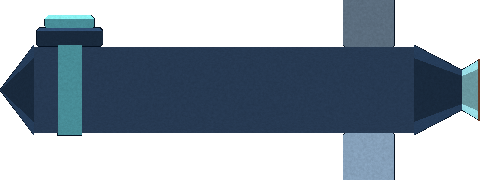
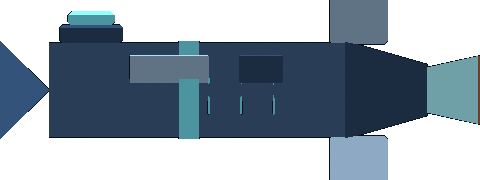
KES-292 unify rocket sprite family
Author Explorer and Prospector bodies in Blender with shared operational and blueprint variants, then wire mining and menu surfaces to one asset map.

diff --git a/web/components/game/screens/MiningCanvas.tsx b/web/components/game/screens/MiningCanvas.tsx
@@ -2,11 +2,12 @@
 
 import { useEffect, useRef, useState } from 'react'
 import { capDpr } from '@/lib/engine/pixiDisplay'
-import { Application, Assets, Container, Graphics, type Texture } from 'pixi.js'
+import { Application, Assets, Container, Graphics, Sprite, type Texture } from 'pixi.js'
 import { Scene, GameLoop, InputManager, RuntimeContext, screenToWorld } from '@/lib/engine'
 import { wireShapeRenderers } from '@/lib/engine/components/ShapeRenderer'
 import { MiningController, SHIP_X, SCROLL_SPEED, SCROLL_SPEED_MIN, SCROLL_SPEED_MAX } from '@/lib/engine/scripts/MiningController'
 import type { MineralMeta } from '@/lib/data'
+import { ROCKET_ASSETS } from '@/lib/rocket-assets'
 
 // Keep every mineral visibly grounded in the mining scene. The authored set
 // covers the most common late-game ores; the neutral iron crystal is a
@@ -66,7 +67,7 @@ function buildAimGuide(shipY: number, surfaceY: number): Graphics {
   return g
 }
 
-function buildShip(shipY: number): Graphics {
+function buildEnginePlume(): Graphics {
   const g = new Graphics()
 
   // Engine exhaust layers
@@ -75,51 +76,11 @@ function buildShip(shipY: number): Graphics {
   g.ellipse(-24, 0, 7, 4).fill({ color: 0xffcc22, alpha: 0.82 })
   g.circle(-22, 0, 3).fill({ color: 0xfff0aa, alpha: 1 })
 
-  // Swept delta wings (drawn behind fuselage)
-  g.poly([-6, 6, 18, 6, 10, 24, -20, 18]).fill(0x0d2040)
-  g.poly([-6, -6, 18, -6, 10, -24, -20, -18]).fill(0x0d2040)
-  // Wing leading-edge highlight
-  g.poly([18, -6, 18, -8, -4, -8, -6, -6]).fill({ color: 0x2f6aaa, alpha: 0.55 })
-  g.poly([18, 6, 18, 8, -4, 8, -6, 6]).fill({ color: 0x2f6aaa, alpha: 0.55 })
-
-  // Engine cowling (rear block)
-  g.rect(-26, -5, 10, 10).fill(0x071220)
-  g.rect(-25, -3, 5, 6).fill(0x132c50)
-
-  // Main fuselage — elongated torpedo
-  g.poly([-18, -8, 30, -6, 42, 0, 30, 6, -18, 8, -23, 4, -23, -4]).fill(0x1a4282)
-
-  // Fuselage dorsal highlight (top third, lighter)
-  g.poly([-2, -7, 28, -5.5, 28, -2, -2, -3]).fill({ color: 0x3a78c8, alpha: 0.42 })
-
-  // Wing-root fairings where wings meet body
-  g.poly([-2, -6, 16, -6, 14, -10, -8, -10]).fill(0x12305c)
-  g.poly([-2, 6, 16, 6, 14, 10, -8, 10]).fill(0x12305c)
-
-  // Cockpit surround
-  g.ellipse(14, 0, 14, 8).fill(0x050d1a)
-  // Cockpit glass with two-tone reflection
-  g.ellipse(15, -1, 11, 5.5).fill({ color: 0x1e66bb, alpha: 0.65 })
-  g.ellipse(17, -2, 6, 2.8).fill({ color: 0x6ab8f0, alpha: 0.75 })
-  g.ellipse(19, -2.5, 2.5, 1.2).fill({ color: 0xc4e8ff, alpha: 0.6 })
-
-  // Nose cone
-  g.poly([30, -5.5, 44, 0, 30, 5.5]).fill(0x1e5096)
-  g.poly([30, -3, 42, 0, 30, 3]).fill({ color: 0x4a90d8, alpha: 0.45 })
-
-  // Laser emitter barrel
-  g.rect(42, -1.8, 10, 3.6).fill(0x0a1e3a)
-  g.rect(43, -0.8, 8, 1.6).fill(0x1a4470)
-  // Emitter tip glow
-  g.circle(52, 0, 3).fill({ color: 0x44bbff, alpha: 0.9 })
-  g.circle(52, 0, 1.6).fill({ color: 0xccf2ff, alpha: 1 })
-
-  g.x = SHIP_X
-  g.y = shipY
   return g
 }
 
 interface MiningCanvasProps {
+  rocketImageSrc?: string
   minerals: string[]
   requiredMinerals?: string[]
   mineralMeta: Record<string, MineralMeta>
@@ -133,7 +94,7 @@ interface MiningCanvasProps {
   neededMineralsRef?: React.MutableRefObject<Set<string> | null>
 }
 
-export default function MiningCanvas({ minerals, requiredMinerals, mineralMeta, laserTier, onCollect, fireRef, scrollRef, oreNearRef, neededMineralsRef }: MiningCanvasProps) {
+export default function MiningCanvas({ rocketImageSrc, minerals, requiredMinerals, mineralMeta, laserTier, onCollect, fireRef, scrollRef, oreNearRef, neededMineralsRef }: MiningCanvasProps) {
   const containerRef = useRef<HTMLDivElement>(null)
   const onCollectRef = useRef(onCollect)
   onCollectRef.current = onCollect
@@ -194,6 +155,13 @@ export default function MiningCanvas({ minerals, requiredMinerals, mineralMeta, 
               .catch(() => {})
           })
         )
+
+        let rocketTexture: Texture | null = null
+        try {
+          rocketTexture = await Assets.load<Texture>(rocketImageSrc ?? ROCKET_ASSETS.explorer.exterior)
+        } catch {
+          try { rocketTexture = await Assets.load<Texture>(ROCKET_ASSETS.explorer.exterior) } catch { rocketTexture = null }
+        }
 
         const [sceneData] = await Promise.all([
           Scene.load('/game/scenes/mining.scene.json'),
@@ -283,7 +251,28 @@ export default function MiningCanvas({ minerals, requiredMinerals, mineralMeta, 
         }
 
         app.stage.addChild(buildAimGuide(shipY, surfaceY))
-        app.stage.addChild(buildShip(shipY))
+        const plume = buildEnginePlume()
+        plume.x = SHIP_X - 48
+        plume.y = shipY
+        app.stage.addChild(plume)
+
+        if (rocketTexture) {
+          const ship = new Sprite(rocketTexture)
+          const shipWidth = Math.min(112, worldW * 0.26)
+          const shipScale = shipWidth / rocketTexture.width
+          ship.anchor.set(0.5)
+          ship.scale.set(-shipScale, shipScale)
+          ship.x = SHIP_X
+          ship.y = shipY
+          app.stage.addChild(ship)
+          let plumePhase = 0
+          app.ticker.add(ticker => {
+            plumePhase += ticker.deltaMS / 1000
+            const pulse = 0.92 + Math.sin(plumePhase * 18) * 0.08
+            plume.scale.set(pulse, 0.94 + Math.sin(plumePhase * 13) * 0.06)
+            plume.alpha = 0.84 + Math.sin(plumePhase * 11) * 0.10
+          })
+        }
 
         loop = new GameLoop(scene, app)
         loop.start()
@@ -311,7 +300,7 @@ export default function MiningCanvas({ minerals, requiredMinerals, mineralMeta, 
       // else: async init returns early (destroyed=true), canvas stays briefly then is GC'd with parent
     }
     // eslint-disable-next-line react-hooks/exhaustive-deps
-  }, [])
+  }, [rocketImageSrc])
 
   return (
     <div ref={containerRef} className="mining-canvas" data-testid="mining-canvas">

diff --git a/web/components/game/RocketCutaway.tsx b/web/components/game/RocketCutaway.tsx
@@ -1,5 +1,7 @@
 'use client'
 
+import { rocketAssetsForId } from '@/lib/rocket-assets'
+
 export type RocketRoomKey = 'payload' | 'fuel' | 'engine' | 'structure'
 
 interface RocketCutawayProps {
@@ -21,6 +23,7 @@ interface RoomSpec {
 }
 
 export default function RocketCutaway({ rocket, activeRoom, onToggle }: RocketCutawayProps) {
+  const blueprintSrc = rocketAssetsForId(rocket.id).blueprint
   const rooms: RoomSpec[] = [
     {
       key: 'payload',
@@ -77,28 +80,8 @@ export default function RocketCutaway({ rocket, activeRoom, onToggle }: RocketCu
     <div style={{ width: '100%', display: 'flex', flexDirection: 'column', alignItems: 'center', gap: 12 }}>
       <div data-testid="rocket-cutaway" style={{ position: 'relative', width: '100%', maxWidth: 760, aspectRatio: '760 / 380' }}>
         <svg viewBox="0 0 760 380" fill="none" aria-hidden="true" style={{ position: 'absolute', inset: 0, width: '100%', height: '100%' }}>
-          {/* Hull — unfilled technical linework, no glow. */}
-          <path
-            d="M22 180 L92 82 Q108 62 136 62 H640 Q690 90 726 180 Q690 270 640 298 H136 Q108 298 92 278 Z"
-            fill="none"
-            stroke="var(--ln-bp-ink, var(--ln-text))"
-            strokeWidth="2"
-          />
-          <path
-            d="M92 82 L160 106 H610 Q660 126 688 180 Q660 234 610 254 H160 L92 278"
-            fill="none"
-            stroke="var(--ln-bp-ink-dim, var(--ln-text-dim))"
-            strokeWidth="1"
-            opacity=".6"
-          />
-
-          {/* Dashed horizontal centerline through the hull. */}
-          <line x1="22" y1="180" x2="726" y2="180" stroke="var(--ln-bp-ink-mute, var(--ln-text-muted))" strokeWidth="1" strokeDasharray="6 6" />
-
-          {/* Fin / nozzle linework, restyled as outline strokes only. */}
-          <path d="M92 106 L54 122 V238 L92 254" fill="none" stroke="var(--ln-bp-ink, var(--ln-text))" strokeWidth="1.5" />
-          <path d="M640 106 L704 126 V234 L640 254" fill="none" stroke="var(--ln-bp-ink, var(--ln-text))" strokeWidth="1.5" />
-          <ellipse cx="728" cy="180" rx="20" ry="16" fill="none" stroke="var(--ln-bp-ink, var(--ln-text))" strokeWidth="1.5" />
+          {/* Blender render of the same body used by the operational sprite. */}
+          <image href={blueprintSrc} x="0" y="0" width="760" height="380" preserveAspectRatio="none" opacity=".96" />
 
           {/* Leader lines + captions, one per room. */}
           {rooms.map(room => {

diff --git a/web/components/game/screens/MiningScreen.tsx b/web/components/game/screens/MiningScreen.tsx
@@ -154,9 +154,10 @@ function miningGuide(deliveryTargetName?: string) {
   ]
 }
 
-export default function MiningScreen({ mission, target, onComplete, onBack, onAbandon, minerals, laserChargeCap, laserTier, hasCoach, coachManual, onCoachDone, addToast, deliveryTargetName, hasPriorFreeOpsExperience, initialCargo, remoteSiloAvailable, remoteSiloUsed = 0 }: {
+export default function MiningScreen({ mission, target, rocketImageSrc, onComplete, onBack, onAbandon, minerals, laserChargeCap, laserTier, hasCoach, coachManual, onCoachDone, addToast, deliveryTargetName, hasPriorFreeOpsExperience, initialCargo, remoteSiloAvailable, remoteSiloUsed = 0 }: {
   mission: Mission
   target: Target
+  rocketImageSrc?: string
   onComplete: (cargo: Record<string, number>, remoteDisposition?: 'store' | 'sell') => void
   /** Called with whatever's been collected so far (may be empty) — the caller is responsible for persisting it so a later resume doesn't lose progress. */
   onBack: (cargo: Record<string, number>) => void
@@ -514,6 +515,7 @@ export default function MiningScreen({ mission, target, onComplete, onBack, onAb
         <div className="mining-stars" />
         <MiningCanvas
           key={runKey}
+          rocketImageSrc={rocketImageSrc}
           minerals={depositMinerals}
           requiredMinerals={Object.keys(mission.requires.minerals)}
           mineralMeta={minerals}

diff --git a/web/lib/rockets.test.ts b/web/lib/rockets.test.ts
@@ -1,5 +1,6 @@
 import { describe, expect, it } from 'vitest'
 import { ROCKET_MODELS, ROCKET_IDS, canonicalRocketId, rocketConfigForModel } from '@/lib/data'
+import { ROCKET_ASSETS } from './rocket-assets'
 import { getRequiredRocketModel } from './rockets'
 
 describe('getRequiredRocketModel', () => {
@@ -38,5 +39,16 @@ describe('rocketConfigForModel', () => {
     expect(rocketConfigForModel(ROCKET_MODELS.find(rocket => rocket.id === ROCKET_IDS.prospector))).toEqual({
       chassis: 'hull-mk2', propulsion: 'fusion-b2', drill: 'laser-t2',
     })
+  })
+})
+
+describe('rocket asset family', () => {
+  it('keeps one exterior and blueprint pair per canonical vehicle', () => {
+    expect(ROCKET_ASSETS.explorer.exterior).toContain('ship_sr1.png')
+    expect(ROCKET_ASSETS.explorer.blueprint).toContain('sr1_cutaway.png')
+    expect(ROCKET_ASSETS.prospector.exterior).toContain('ship_sr2.png')
+    expect(ROCKET_ASSETS.prospector.blueprint).toContain('sr2_cutaway.png')
+    expect(new Set(Object.values(ROCKET_ASSETS).map(assets => assets.exterior)).size).toBe(2)
+    expect(new Set(Object.values(ROCKET_ASSETS).map(assets => assets.blueprint)).size).toBe(2)
   })
 })

diff --git a/web/components/game/AuthGateSheet.tsx b/web/components/game/AuthGateSheet.tsx
@@ -1,6 +1,7 @@
 'use client'
 
 import React, { useState } from 'react'
+import { ROCKET_ASSETS } from '@/lib/rocket-assets'
 
 interface AuthGateSheetProps {
   error: string | null
@@ -79,7 +80,7 @@ export default function AuthGateSheet({ error, onSignIn, onCreateAccount, onCont
           <div className="auth-gate__orbit auth-gate__orbit--outer" />
           <div className="auth-gate__orbit auth-gate__orbit--inner" />
           <div className="auth-gate__planet" />
-          <img className="auth-gate__ship" src="/game/assets/ships/ship_sr1.png" alt="" />
+          <img className="auth-gate__ship" src={ROCKET_ASSETS.explorer.exterior} alt="" />
           <div className="auth-gate__telemetry">
             <span>ORBITAL NETWORK</span><strong>ONLINE</strong>
             <span>LOCAL TIME</span><strong>03:17:42 UTC</strong>

diff --git a/web/lib/data/rockets.ts b/web/lib/data/rockets.ts
@@ -9,6 +9,7 @@
 
 import type { RocketConfig, RocketModel } from './types'
 import { ROCKET_PRICES } from './economy'
+import { ROCKET_ASSETS } from '../rocket-assets'
 
 export const ROCKET_IDS = {
   explorer: 'explorer',
@@ -35,7 +36,7 @@ export const ROCKET_MODELS: RocketModel[] = [
     missionsRequired: 0,
     locked: false,
     stats: { cargo: 6, maxOrbit: 5, drillTier: 1 },
-    img: '/game/assets/ships/ship_sr1.png',
+    img: ROCKET_ASSETS.explorer.exterior,
     unlockHint: 'Available from the start',
   },
   {
@@ -46,7 +47,7 @@ export const ROCKET_MODELS: RocketModel[] = [
     missionsRequired: 1,
     locked: false,
     stats: { cargo: 10, maxOrbit: 7, drillTier: 2 },
-    img: '/game/assets/ships/ship_sr2.png',
+    img: ROCKET_ASSETS.prospector.exterior,
     unlockHint: 'Unlocks after M1',
   },
   {

diff --git a/web/lib/rocket-assets.ts b/web/lib/rocket-assets.ts
@@ -1,0 +1,21 @@
+/**
+ * The only runtime mapping between a canonical rocket and its art. All
+ * surfaces deliberately resolve through this map so a new body cannot drift
+ * between mining, launchpad, blueprint, transit, and menu treatments.
+ */
+export const ROCKET_ASSETS = {
+  explorer: {
+    exterior: '/game/assets/ships/ship_sr1.png',
+    blueprint: '/game/assets/ships/containers/sr1_cutaway.png',
+  },
+  prospector: {
+    exterior: '/game/assets/ships/ship_sr2.png',
+    blueprint: '/game/assets/ships/containers/sr2_cutaway.png',
+  },
+} as const
+
+export type RocketAssetId = keyof typeof ROCKET_ASSETS
+
+export function rocketAssetsForId(id: string): (typeof ROCKET_ASSETS)[RocketAssetId] {
+  return ROCKET_ASSETS[id as RocketAssetId] ?? ROCKET_ASSETS.explorer
+}

diff --git a/web/lib/data/shipRooms.ts b/web/lib/data/shipRooms.ts
@@ -1,3 +1,5 @@
+import { ROCKET_ASSETS } from '../rocket-assets'
+
 export type ShipRoomKind =
   | 'engine'
   | 'booster'
@@ -100,8 +102,8 @@ export const SHIP_ROOM_DETAIL_ASSETS: Record<ShipRoomKind, string> = {
 export const SHIP_INTERIOR_LAYOUTS: Record<string, ShipInteriorLayout> = {
   explorer: {
     rocketId: 'explorer',
-    exteriorSrc: '/game/assets/ships/ship_sr1.png',
-    containerSrc: '/game/assets/ships/containers/sr1_cutaway.png',
+    exteriorSrc: ROCKET_ASSETS.explorer.exterior,
+    containerSrc: ROCKET_ASSETS.explorer.blueprint,
     // 9x3 cell grid over the cutaway's opened bay (x 7–93%, y 13–84%) —
     // one continuous Pixel-Starships-style grid rather than separate boxed
     // compartments; rooms are dragged between cells within it.

diff --git a/web/components/game/screens/TransitCanvas.tsx b/web/components/game/screens/TransitCanvas.tsx
@@ -4,6 +4,7 @@ import { useEffect, useRef } from 'react'
 import { Application } from 'pixi.js'
 import { capDpr } from '@/lib/engine/pixiDisplay'
 import { buildTransitScene, type TargetKind } from '@/lib/pixi/transitScene'
+import { ROCKET_ASSETS } from '@/lib/rocket-assets'
 
 interface TransitCanvasProps {
   targetName: string
@@ -75,7 +76,7 @@ export default function TransitCanvas({ targetName, targetKind, rocketImageSrc, 
       <img
         data-testid="transit-rocket"
         className="transit-rocket-sprite"
-        src={rocketImageSrc ?? '/game/assets/ships/ship_sr1.png'}
+        src={rocketImageSrc ?? ROCKET_ASSETS.explorer.exterior}
         alt=""
         aria-hidden="true"
         style={{ top: rocketTop }}

diff --git a/web/components/game/screens/DebriefCanvas.tsx b/web/components/game/screens/DebriefCanvas.tsx
@@ -3,6 +3,7 @@
 import { useEffect, useRef } from 'react'
 import { Application, Assets, Container, Graphics, Sprite, Texture } from 'pixi.js'
 import { capDpr } from '@/lib/engine/pixiDisplay'
+import { ROCKET_ASSETS } from '@/lib/rocket-assets'
 
 interface DebriefCanvasProps {
   rocketImageSrc?: string
@@ -10,7 +11,7 @@ interface DebriefCanvasProps {
 
 const STARFIELD = '/game/assets/backgrounds/starmap.png'
 const HANGAR = '/game/assets/base/hangar_flat.png'
-const FALLBACK_SHIP = '/game/assets/ships/ship_sr1.png'
+const FALLBACK_SHIP = ROCKET_ASSETS.explorer.exterior
 
 /**
  * Full-bleed arrival-bay scene for the debrief. The art is deliberately doing

diff --git a/web/components/game/MissionOperationRoutes.tsx b/web/components/game/MissionOperationRoutes.tsx
@@ -156,6 +156,7 @@ export default function MissionOperationRoutes({
         <MiningScreen
           mission={game.mission}
           target={game.target}
+          rocketImageSrc={rocketDisplay.img}
           initialCargo={game.player.miningCargoInProgress}
           onBack={(cargo) => {
             game.setPlayer(player => ({

diff --git a/web/components/game/screens/HangarScreen.tsx b/web/components/game/screens/HangarScreen.tsx
@@ -53,7 +53,7 @@ function RocketCard({ rocket, missionsDone, onSelect }: { rocket: RocketModel; m
             alt={rocket.name}
             width={240}
             height={90}
-            style={{ width: 240, height: 110 }}
+            style={{ width: 240, height: 'auto' }}
           />
         ) : (
           <div>
